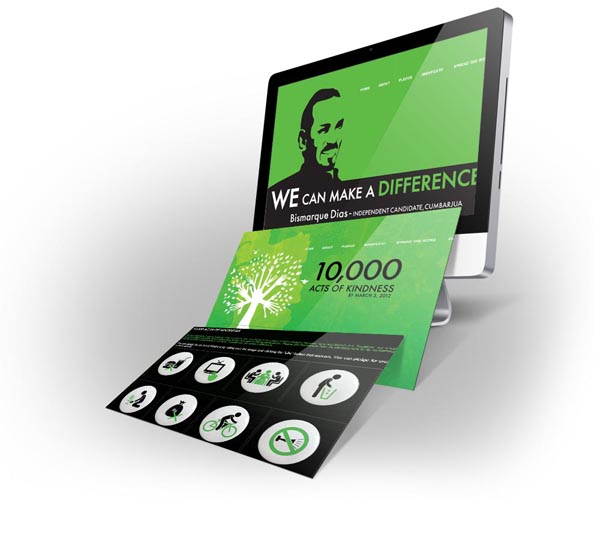
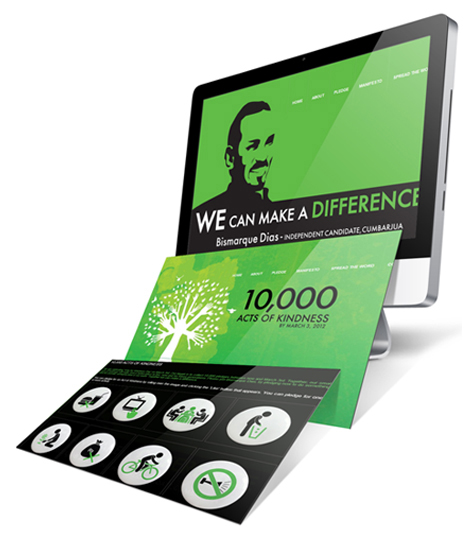
ajency site update

diff --git a/Ajency-site-2/casestudy.html b/Ajency-site-2/casestudy.html
@@ -53,9 +53,9 @@
 			<!-- End Section Block 1 -->
 			
 			<!--Section Block 2 -->
-			<div class="Center-Block group3 ">
+			<div class="Center-Block group3 width-none">
 				<h3 class="grid-title">&nbsp;</h3>
-					<img src="images/large-mockup_1.jpg"  />
+					<img src="images/large-mockup_1.jpg"  height="490px"/>
 			</div>
 			<!-- End Section Block 2 -->
 			
@@ -77,7 +77,7 @@
 			<!-- End Section Block 3 -->
 			
 			<!--Section Block 4 -->
-			<div class="Center-Block group3 ">
+			<div class="Center-Block group3 width-none">
 				<h3 class="grid-title">&nbsp;</h3>
 					<img src="images/large-mockup_2.jpg" />
 			</div>
@@ -141,7 +141,7 @@
 			<!-- End Section Block 5 -->
 		
 		<!--Section Block 6 -->
-			<div class="Center-Block group3 ">
+			<div class="Center-Block group3 width-none">
 				<h3 class="grid-title">&nbsp;</h3>
 					<img src="images/large-mockup_2.jpg" />
 			</div>
@@ -170,7 +170,7 @@
 			<!-- End Section Block 7 -->
 			
 			<!--Section Block 8 -->
-			<div class="Center-Block group3 ">
+			<div class="Center-Block group3 width-none">
 				<h3 class="grid-title">&nbsp;</h3>
 					<img src="images/large-mockup_2.jpg"  />
 			</div>
@@ -204,7 +204,7 @@
 			<!-- End Section Block 9 -->
 			
 				<!--Section Block 10 -->
-			<div class="Center-Block group3 ">
+			<div class="Center-Block group3 width-none">
 				<h3 class="grid-title">&nbsp;</h3>
 					<img src="images/large-mockup_2.jpg"  />
 			</div>
@@ -230,13 +230,26 @@
 			<div class="Center-Block group5">
 				<h3 class="grid-title">&nbsp;</h3>
 						<div class="col-1">
-						
-						<div class="square-tile aj-live-tile float-right"></div>
-						<div class="square-tile aj-live-tile"></div>
-						<div class="square-tile aj-live-tile"></div>
-						<div class="square-tile aj-live-tile"></div>
-						<div class="square-tile aj-live-tile">
-							<h2>See Next</h2>
+						<div class="square-tile aj-live-tile bg-none "></div>
+						<div class="square-tile aj-live-tile tiles-grid-title">
+							<i class="icon-arrow-right"></i>
+							<a href="#"><h2>See Next</h2></a>
+						</div>
+						<div class="square-tile aj-live-tile tiles-grid-title tiles-grid-title">
+							
+							<a href="#"><h2>Credentials</h2></a>
+						</div>
+						<div class="square-tile aj-live-tile tiles-grid-title tiles-grid-title">
+							<i class="icon-comment"></i>
+							<a href="#"><h2>Discuss a project</h2></a>
+						</div>
+						<div class="square-tile aj-live-tile tiles-grid-title tiles-grid-title">
+							<i class="icon-suitcase"></i>
+							<a href="#"><h2>Job Hunting ?</h2></a>
+						</div>
+						<div class="square-tile aj-live-tile tiles-grid-title">
+							<i class="icon-home"></i>
+							<a href="#"><h2>Back Home</h2></a></a>
 						</div>
 						</div>
 			</div>

diff --git a/Ajency-site-2/css/deskstop.css b/Ajency-site-2/css/deskstop.css
@@ -33,6 +33,23 @@ body {
 .yellow {
   background: #f0c60a !important;
 }
+.bg-none {
+  background: none!important;
+}
+a {
+  color: #fff;
+}
+.tiles-grid-title h2 {
+  position: absolute;
+  bottom: 0;
+  font-weight: normal!important;
+}
+.tiles-grid-title i {
+  display: block;
+  text-align: center;
+  font-size: 3em;
+  line-height: 3em;
+}
 .button-primary {
   text-decoration: none;
   float: left;
@@ -57,6 +74,9 @@ body {
   display: block;
   color: #000;
 }
+.width-none {
+  width: auto !important;
+}
 .is-reponsive {
   height: 100%;
 }
@@ -76,7 +96,7 @@ body {
 }
 .group1 {
   height: 520px;
-  width: 345px;
+  width: 395px;
   float: left;
   overflow: hidden;
   position: relative;
@@ -217,12 +237,20 @@ body {
   display: block;
 }
 .aj-group h1 {
+  /*font-weight: normal;
+			font-size: 1.8em;
+			line-height: 30px;
+			text-transform: uppercase;
+			color:@c-grey;
+			margin: 0 0 4% 0;*/
+
   font-weight: normal;
-  font-size: 1.8em;
-  line-height: 30px;
+  font-size: 2em;
+  line-height: 31px;
   text-transform: uppercase;
   color: #252525;
   margin: 0 0 4% 0;
+  font-weight: 700;
 }
 .aj-group h1 .highlight {
   color: #f0c60a;
@@ -245,7 +273,7 @@ body {
 .aj-group .related-link li {
   border-bottom: 1px solid #CCC;
   padding: 6px 6px 6px 0px;
-  width: 80%;
+  width: 70%;
 }
 .aj-group .related-link li a {
   font-size: 1.1em;
@@ -270,7 +298,7 @@ body {
   color: #603913;
 }
 .aj-group .aj-meta {
-  font-size: 15px;
+  font-size: 1.2em;
   color: #603913;
   line-height: 21px;
 }
@@ -369,7 +397,7 @@ body {
   font-size: 5em;
   line-height: 62px;
   color: #f0c60a;
-  font-weight: 600;
+  font-weight: 500;
 }
 .casestudy-content .bullet-point .item .content h3 {
   margin-bottom: 0%;

diff --git a/Ajency-site-2/css/deskstop.less b/Ajency-site-2/css/deskstop.less
@@ -42,6 +42,25 @@ body{
 .yellow{
 	background:@yellow !important;
 }
+.bg-none{
+	background:none!important;
+}
+a{
+	color:#fff;
+}
+.tiles-grid-title{
+	h2{
+		position: absolute;
+		bottom: 0;
+		font-weight: normal!important;
+	}
+	i{
+		display: block;
+		text-align: center;
+		font-size: 3em;
+		line-height: 3em;
+	}
+}
 .button-primary{
 	text-decoration: none;
 	float: left;
@@ -67,6 +86,9 @@ body{
 	color:#000;
 	
 }
+.width-none{
+	width:auto !important;
+}
 .is-reponsive{
 	height:100%;
 }
@@ -88,7 +110,7 @@ body{
 }
 .group1 {
 	height: 520px;
-	width: 345px;
+	width: 395px;
 	float: left;
 	overflow: hidden;
 	position: relative;
@@ -240,12 +262,19 @@ body{
 			display: block;
 		}
 		h1{
-			font-weight: normal;
+			/*font-weight: normal;
 			font-size: 1.8em;
 			line-height: 30px;
 			text-transform: uppercase;
 			color:@c-grey;
+			margin: 0 0 4% 0;*/
+			font-weight: normal;
+			font-size: 2em;
+			line-height: 31px;
+			text-transform: uppercase;
+			color:@c-grey;
 			margin: 0 0 4% 0;
+			font-weight: 700;
 			.highlight{
 				color:@yellow;
 			}
@@ -267,7 +296,7 @@ body{
 			li{
 				border-bottom: 1px solid #CCC;
 				padding: 6px 6px 6px 0px;
-				width: 80%;
+				width: 70%;
 				a{
 					font-size:1.1em;
 					color:@brown;
@@ -293,7 +322,7 @@ body{
 			}
 		}
 		.aj-meta{
-			font-size:15px;
+			font-size:1.2em;
 			color:@brown;
 			line-height: 21px;
 			i{
@@ -400,7 +429,7 @@ body{
 				font-size: 5em;
 				line-height: 62px;
 				color:@yellow;
-				font-weight: 600;
+				font-weight: 500;
 			}
 			.content{
 				h3{
